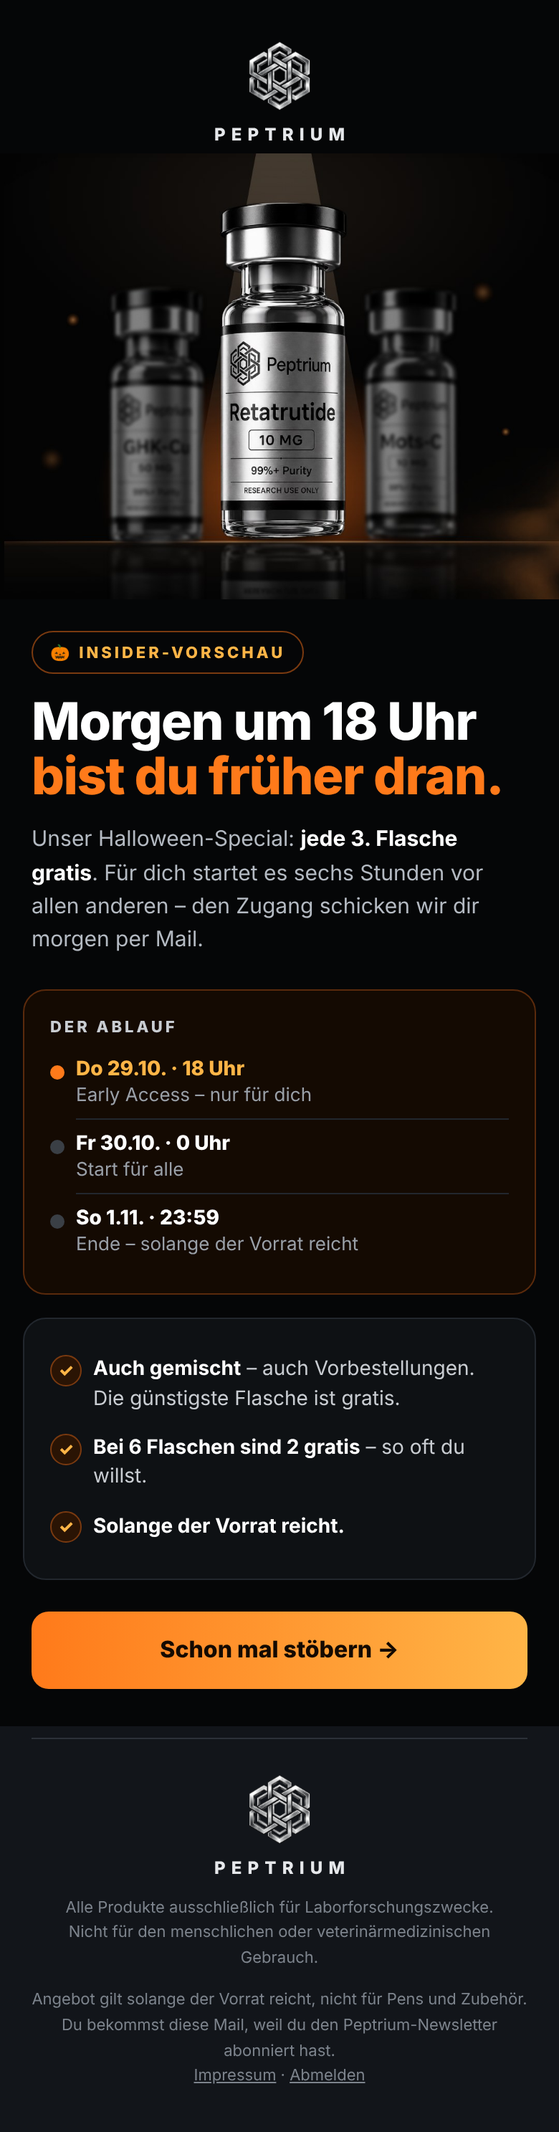
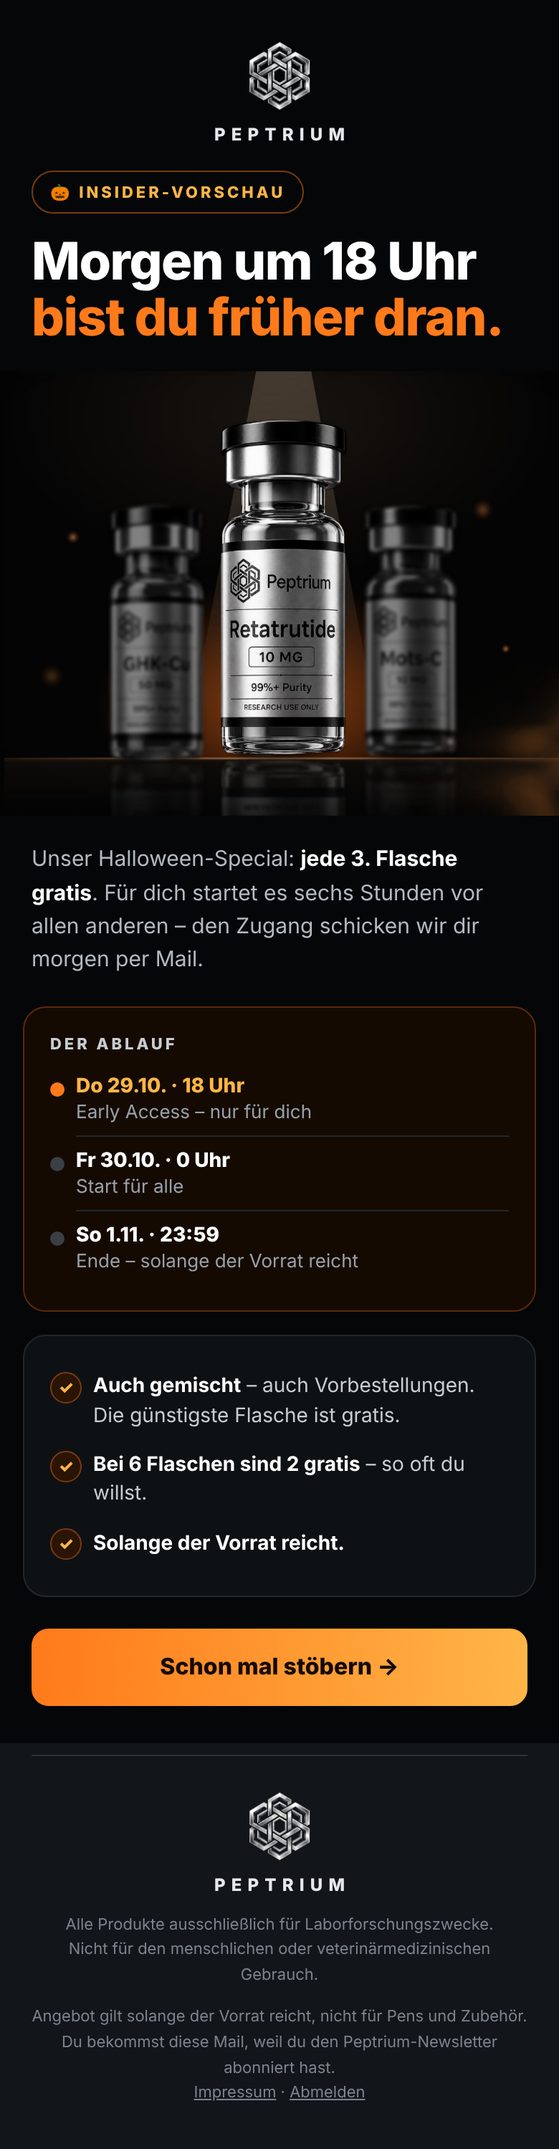
Halloween-Mails: Überschrift über dem Bild
Claude-Session: https://claude.ai/code/session_011YY7DBkbr5BcFGKyLoSbVN

diff --git a/drafts/halloween-2026-10-22/mails/vorschau-letzte.html b/drafts/halloween-2026-10-22/mails/vorschau-letzte.html
@@ -1,1 +1,1 @@
-<!doctype html><html lang="de"><head><meta charset="utf-8"><meta name="viewport" content="width=device-width,initial-scale=1"></head><body style="margin:0;background:#050607;"><table role="presentation" width="100%" cellpadding="0" cellspacing="0" style="background:#050607;"><tr><td align="center" style="padding:0;"><table role="presentation" width="100%" cellpadding="0" cellspacing="0" style="max-width:600px;background:#050607;"><tr><td style="padding:26px 20px 6px;background:#050607;text-align:center;font-family:-apple-system,BlinkMacSystemFont,'Segoe UI',Inter,Helvetica,Arial,sans-serif;"><img src="https://peptrium.com/wp-content/uploads/2026/08/IMG_2644-cropped-300x300.png" width="54" height="54" alt="Peptrium" style="display:block;margin:0 auto;width:54px;height:54px;border:0;"><div style="font-size:12px;font-weight:800;letter-spacing:.34em;padding-left:.34em;color:#E6E8EB;margin-top:6px;">PEPTRIUM</div></td></tr><tr><td style="padding:0;line-height:0;background:#050607;"><a href="https://peptrium.com/alle-produkte/?utm_source=newsletter&utm_medium=email&utm_campaign=halloween-letzte" style="display:block;line-height:0;"><img src="nl-hw-letzte.jpg" width="600" alt="Halloween bei Peptrium" style="display:block;width:100%;max-width:600px;height:auto;border:0;"></a></td></tr><tr><td style="padding:22px 22px 6px;background:#050607;text-align:left;font-family:-apple-system,BlinkMacSystemFont,'Segoe UI',Inter,Helvetica,Arial,sans-serif;"><span style="display:inline-block;font-size:11px;font-weight:800;letter-spacing:.18em;color:#FFB547;border:1px solid #7A3A10;border-radius:99px;padding:7px 12px;">🎃 LETZTE CHANCE</span><div style="font-size:36px;line-height:1.08;font-weight:800;color:#FFFFFF;letter-spacing:-.02em;margin-top:14px;">Heute um 23:59<br><span style="color:#FF7A1A;">ist Schluss.</span></div><div style="font-size:15px;line-height:1.55;color:#B4BAC2;margin-top:12px;">Danach kostet jede Flasche wieder den normalen Preis.</div></td></tr><tr><td style="padding:18px 22px 6px;background:#050607;text-align:left;font-family:-apple-system,BlinkMacSystemFont,'Segoe UI',Inter,Helvetica,Arial,sans-serif;"><a href="https://peptrium.com/alle-produkte/?utm_source=newsletter&utm_medium=email&utm_campaign=halloween-letzte" style="display:block;background:#FF7A1A;background-image:linear-gradient(90deg,#FF7A1A,#FFB547);color:#140A02;text-align:center;text-decoration:none;font-weight:800;font-size:16px;line-height:1.2;padding:17px 12px;border-radius:12px;font-family:-apple-system,BlinkMacSystemFont,'Segoe UI',Inter,Helvetica,Arial,sans-serif;">Jetzt Flaschen wählen &rarr;</a></td></tr><tr><td style="padding:20px 16px 4px;background:#050607;text-align:left;font-family:-apple-system,BlinkMacSystemFont,'Segoe UI',Inter,Helvetica,Arial,sans-serif;"><div style="font-size:11px;font-weight:800;letter-spacing:.18em;color:#C9CDD2;margin-bottom:6px;">DIE BELIEBTESTEN</div><table role="presentation" width="100%" cellpadding="0" cellspacing="0"><tr><td style="padding:6px 0;"><table role="presentation" width="100%" cellpadding="0" cellspacing="0" style="border-collapse:separate;background:#0E1114;border:1px solid #22272E;border-radius:14px;overflow:hidden;"><tr><td width="92" style="width:92px;padding:0;line-height:0;"><a href="https://peptrium.com/produkt/retatrutide/?attribute_volumen=10mg&utm_source=newsletter&utm_medium=email&utm_campaign=halloween-letzte"><img src="nl-hw-p-reta10.jpg" width="92" alt="" style="display:block;width:92px;height:92px;border:0;"></a></td><td style="padding:10px 12px;font-family:-apple-system,BlinkMacSystemFont,'Segoe UI',Inter,Helvetica,Arial,sans-serif;"><div style="font-size:15px;font-weight:800;color:#fff;">Retatrutide 10 mg</div><div style="font-size:13px;color:#9AA0A8;margin-top:3px;">3 Flaschen – du zahlst nur 2</div><div style="font-size:16px;font-weight:800;color:#FFB547;margin-top:2px;white-space:nowrap;">149,80 €</div></td><td width="44" style="width:44px;padding-right:12px;"><a href="https://peptrium.com/produkt/retatrutide/?attribute_volumen=10mg&utm_source=newsletter&utm_medium=email&utm_campaign=halloween-letzte" style="display:block;width:36px;height:36px;line-height:36px;border-radius:50%;background:#fff;color:#0D0F12;text-align:center;font-weight:800;text-decoration:none;font-size:18px;">&rarr;</a></td></tr></table></td></tr><tr><td style="padding:6px 0;"><table role="presentation" width="100%" cellpadding="0" cellspacing="0" style="border-collapse:separate;background:#0E1114;border:1px solid #22272E;border-radius:14px;overflow:hidden;"><tr><td width="92" style="width:92px;padding:0;line-height:0;"><a href="https://peptrium.com/produkt/retatrutide/?attribute_volumen=20mg&utm_source=newsletter&utm_medium=email&utm_campaign=halloween-letzte"><img src="nl-hw-p-reta20.jpg" width="92" alt="" style="display:block;width:92px;height:92px;border:0;"></a></td><td style="padding:10px 12px;font-family:-apple-system,BlinkMacSystemFont,'Segoe UI',Inter,Helvetica,Arial,sans-serif;"><div style="font-size:15px;font-weight:800;color:#fff;">Retatrutide 20 mg</div><div style="font-size:13px;color:#9AA0A8;margin-top:3px;">3 Flaschen – du zahlst nur 2</div><div style="font-size:16px;font-weight:800;color:#FFB547;margin-top:2px;white-space:nowrap;">289,80 €</div></td><td width="44" style="width:44px;padding-right:12px;"><a href="https://peptrium.com/produkt/retatrutide/?attribute_volumen=20mg&utm_source=newsletter&utm_medium=email&utm_campaign=halloween-letzte" style="display:block;width:36px;height:36px;line-height:36px;border-radius:50%;background:#fff;color:#0D0F12;text-align:center;font-weight:800;text-decoration:none;font-size:18px;">&rarr;</a></td></tr></table></td></tr><tr><td style="padding:6px 0;"><table role="presentation" width="100%" cellpadding="0" cellspacing="0" style="border-collapse:separate;background:#0E1114;border:1px solid #22272E;border-radius:14px;overflow:hidden;"><tr><td width="92" style="width:92px;padding:0;line-height:0;"><a href="https://peptrium.com/produkt/ghk-cu/?attribute_volumen=100mg&utm_source=newsletter&utm_medium=email&utm_campaign=halloween-letzte"><img src="nl-hw-p-ghk100.jpg" width="92" alt="" style="display:block;width:92px;height:92px;border:0;"></a></td><td style="padding:10px 12px;font-family:-apple-system,BlinkMacSystemFont,'Segoe UI',Inter,Helvetica,Arial,sans-serif;"><div style="font-size:15px;font-weight:800;color:#fff;">GHK-Cu 100 mg</div><div style="font-size:13px;color:#9AA0A8;margin-top:3px;">3 Flaschen – du zahlst nur 2</div><div style="font-size:16px;font-weight:800;color:#FFB547;margin-top:2px;white-space:nowrap;">149,80 €</div></td><td width="44" style="width:44px;padding-right:12px;"><a href="https://peptrium.com/produkt/ghk-cu/?attribute_volumen=100mg&utm_source=newsletter&utm_medium=email&utm_campaign=halloween-letzte" style="display:block;width:36px;height:36px;line-height:36px;border-radius:50%;background:#fff;color:#0D0F12;text-align:center;font-weight:800;text-decoration:none;font-size:18px;">&rarr;</a></td></tr></table></td></tr></table></td></tr><tr><td style="padding:12px 16px 26px;background:#050607;text-align:left;font-family:-apple-system,BlinkMacSystemFont,'Segoe UI',Inter,Helvetica,Arial,sans-serif;"><div style="background:#0E1114;border:1px solid #22272E;border-radius:16px;padding:18px 18px;"><table role="presentation" width="100%" cellpadding="0" cellspacing="0"><tr><td width="30" valign="top" style="width:30px;padding:7px 0;"><div style="width:20px;height:20px;line-height:20px;border-radius:50%;background:#2A1404;border:1px solid #7A3A10;color:#FFB547;text-align:center;font-size:12px;font-weight:800;">&#10003;</div></td><td style="padding:7px 0;font-family:-apple-system,BlinkMacSystemFont,'Segoe UI',Inter,Helvetica,Arial,sans-serif;font-size:14px;line-height:1.45;color:#C9CDD2;"><b style="color:#fff;">Auch gemischt</b> – auch Vorbestellungen. Die günstigste Flasche ist gratis.</td></tr><tr><td width="30" valign="top" style="width:30px;padding:7px 0;"><div style="width:20px;height:20px;line-height:20px;border-radius:50%;background:#2A1404;border:1px solid #7A3A10;color:#FFB547;text-align:center;font-size:12px;font-weight:800;">&#10003;</div></td><td style="padding:7px 0;font-family:-apple-system,BlinkMacSystemFont,'Segoe UI',Inter,Helvetica,Arial,sans-serif;font-size:14px;line-height:1.45;color:#C9CDD2;"><b style="color:#fff;">Kein Code nötig</b> – wird automatisch abgezogen.</td></tr><tr><td width="30" valign="top" style="width:30px;padding:7px 0;"><div style="width:20px;height:20px;line-height:20px;border-radius:50%;background:#2A1404;border:1px solid #7A3A10;color:#FFB547;text-align:center;font-size:12px;font-weight:800;">&#10003;</div></td><td style="padding:7px 0;font-family:-apple-system,BlinkMacSystemFont,'Segoe UI',Inter,Helvetica,Arial,sans-serif;font-size:14px;line-height:1.45;color:#C9CDD2;"><b style="color:#fff;">Per Vorkasse?</b> Es zählt deine Bestellung, nicht der Zahlungseingang.</td></tr></table></div></td></tr><tr><td style="padding:8px 22px 30px;background:#12151A;text-align:center;font-family:-apple-system,BlinkMacSystemFont,'Segoe UI',Inter,Helvetica,Arial,sans-serif;"><div style="height:1px;background:#2C3138;margin:0 0 22px;"></div><img src="https://peptrium.com/wp-content/uploads/2026/08/IMG_2644-cropped-300x300.png" width="54" height="54" alt="Peptrium" style="display:block;margin:0 auto;width:54px;height:54px;border:0;"><div style="font-size:12px;font-weight:800;letter-spacing:.34em;padding-left:.34em;color:#E6E8EB;margin-top:6px;">PEPTRIUM</div><div style="font-size:11px;color:#7D848D;margin-top:12px;line-height:1.6;">Alle Produkte ausschließlich für Laborforschungszwecke.<br>Nicht für den menschlichen oder veterinärmedizinischen Gebrauch.</div><div style="font-size:11px;color:#7D848D;margin-top:12px;line-height:1.6;">Angebot gilt solange der Vorrat reicht, nicht für Pens und Zubehör.<br>Du bekommst diese Mail, weil du den Peptrium-Newsletter abonniert hast. <br><a href="https://peptrium.com/impressum/" style="color:#7D848D;">Impressum</a> · <a href="#" style="color:#7D848D;">Abmelden</a></div></td></tr></table></td></tr></table></body></html>
+<!doctype html><html lang="de"><head><meta charset="utf-8"><meta name="viewport" content="width=device-width,initial-scale=1"></head><body style="margin:0;background:#050607;"><table role="presentation" width="100%" cellpadding="0" cellspacing="0" style="background:#050607;"><tr><td align="center" style="padding:0;"><table role="presentation" width="100%" cellpadding="0" cellspacing="0" style="max-width:600px;background:#050607;"><tr><td style="padding:26px 20px 0;background:#050607;text-align:center;font-family:-apple-system,BlinkMacSystemFont,'Segoe UI',Inter,Helvetica,Arial,sans-serif;"><img src="https://peptrium.com/wp-content/uploads/2026/08/IMG_2644-cropped-300x300.png" width="54" height="54" alt="Peptrium" style="display:block;margin:0 auto;width:54px;height:54px;border:0;"><div style="font-size:12px;font-weight:800;letter-spacing:.34em;padding-left:.34em;color:#E6E8EB;margin-top:6px;">PEPTRIUM</div></td></tr><tr><td style="padding:18px 22px 18px;background:#050607;text-align:left;font-family:-apple-system,BlinkMacSystemFont,'Segoe UI',Inter,Helvetica,Arial,sans-serif;"><span style="display:inline-block;font-size:11px;font-weight:800;letter-spacing:.18em;color:#FFB547;border:1px solid #7A3A10;border-radius:99px;padding:7px 12px;">🎃 LETZTE CHANCE</span><div style="font-size:36px;line-height:1.08;font-weight:800;color:#FFFFFF;letter-spacing:-.02em;margin-top:14px;">Heute um 23:59<br><span style="color:#FF7A1A;">ist Schluss.</span></div></td></tr><tr><td style="padding:0;line-height:0;background:#050607;"><a href="https://peptrium.com/alle-produkte/?utm_source=newsletter&utm_medium=email&utm_campaign=halloween-letzte" style="display:block;line-height:0;"><img src="nl-hw-letzte.jpg" width="600" alt="Halloween bei Peptrium" style="display:block;width:100%;max-width:600px;height:auto;border:0;"></a></td></tr><tr><td style="padding:18px 22px 4px;background:#050607;text-align:left;font-family:-apple-system,BlinkMacSystemFont,'Segoe UI',Inter,Helvetica,Arial,sans-serif;"><div style="font-size:15px;line-height:1.55;color:#B4BAC2;">Danach kostet jede Flasche wieder den normalen Preis.</div></td></tr><tr><td style="padding:18px 22px 6px;background:#050607;text-align:left;font-family:-apple-system,BlinkMacSystemFont,'Segoe UI',Inter,Helvetica,Arial,sans-serif;"><a href="https://peptrium.com/alle-produkte/?utm_source=newsletter&utm_medium=email&utm_campaign=halloween-letzte" style="display:block;background:#FF7A1A;background-image:linear-gradient(90deg,#FF7A1A,#FFB547);color:#140A02;text-align:center;text-decoration:none;font-weight:800;font-size:16px;line-height:1.2;padding:17px 12px;border-radius:12px;font-family:-apple-system,BlinkMacSystemFont,'Segoe UI',Inter,Helvetica,Arial,sans-serif;">Jetzt Flaschen wählen &rarr;</a></td></tr><tr><td style="padding:20px 16px 4px;background:#050607;text-align:left;font-family:-apple-system,BlinkMacSystemFont,'Segoe UI',Inter,Helvetica,Arial,sans-serif;"><div style="font-size:11px;font-weight:800;letter-spacing:.18em;color:#C9CDD2;margin-bottom:6px;">DIE BELIEBTESTEN</div><table role="presentation" width="100%" cellpadding="0" cellspacing="0"><tr><td style="padding:6px 0;"><table role="presentation" width="100%" cellpadding="0" cellspacing="0" style="border-collapse:separate;background:#0E1114;border:1px solid #22272E;border-radius:14px;overflow:hidden;"><tr><td width="92" style="width:92px;padding:0;line-height:0;"><a href="https://peptrium.com/produkt/retatrutide/?attribute_volumen=10mg&utm_source=newsletter&utm_medium=email&utm_campaign=halloween-letzte"><img src="nl-hw-p-reta10.jpg" width="92" alt="" style="display:block;width:92px;height:92px;border:0;"></a></td><td style="padding:10px 12px;font-family:-apple-system,BlinkMacSystemFont,'Segoe UI',Inter,Helvetica,Arial,sans-serif;"><div style="font-size:15px;font-weight:800;color:#fff;">Retatrutide 10 mg</div><div style="font-size:13px;color:#9AA0A8;margin-top:3px;">3 Flaschen – du zahlst nur 2</div><div style="font-size:16px;font-weight:800;color:#FFB547;margin-top:2px;white-space:nowrap;">149,80 €</div></td><td width="44" style="width:44px;padding-right:12px;"><a href="https://peptrium.com/produkt/retatrutide/?attribute_volumen=10mg&utm_source=newsletter&utm_medium=email&utm_campaign=halloween-letzte" style="display:block;width:36px;height:36px;line-height:36px;border-radius:50%;background:#fff;color:#0D0F12;text-align:center;font-weight:800;text-decoration:none;font-size:18px;">&rarr;</a></td></tr></table></td></tr><tr><td style="padding:6px 0;"><table role="presentation" width="100%" cellpadding="0" cellspacing="0" style="border-collapse:separate;background:#0E1114;border:1px solid #22272E;border-radius:14px;overflow:hidden;"><tr><td width="92" style="width:92px;padding:0;line-height:0;"><a href="https://peptrium.com/produkt/retatrutide/?attribute_volumen=20mg&utm_source=newsletter&utm_medium=email&utm_campaign=halloween-letzte"><img src="nl-hw-p-reta20.jpg" width="92" alt="" style="display:block;width:92px;height:92px;border:0;"></a></td><td style="padding:10px 12px;font-family:-apple-system,BlinkMacSystemFont,'Segoe UI',Inter,Helvetica,Arial,sans-serif;"><div style="font-size:15px;font-weight:800;color:#fff;">Retatrutide 20 mg</div><div style="font-size:13px;color:#9AA0A8;margin-top:3px;">3 Flaschen – du zahlst nur 2</div><div style="font-size:16px;font-weight:800;color:#FFB547;margin-top:2px;white-space:nowrap;">289,80 €</div></td><td width="44" style="width:44px;padding-right:12px;"><a href="https://peptrium.com/produkt/retatrutide/?attribute_volumen=20mg&utm_source=newsletter&utm_medium=email&utm_campaign=halloween-letzte" style="display:block;width:36px;height:36px;line-height:36px;border-radius:50%;background:#fff;color:#0D0F12;text-align:center;font-weight:800;text-decoration:none;font-size:18px;">&rarr;</a></td></tr></table></td></tr><tr><td style="padding:6px 0;"><table role="presentation" width="100%" cellpadding="0" cellspacing="0" style="border-collapse:separate;background:#0E1114;border:1px solid #22272E;border-radius:14px;overflow:hidden;"><tr><td width="92" style="width:92px;padding:0;line-height:0;"><a href="https://peptrium.com/produkt/ghk-cu/?attribute_volumen=100mg&utm_source=newsletter&utm_medium=email&utm_campaign=halloween-letzte"><img src="nl-hw-p-ghk100.jpg" width="92" alt="" style="display:block;width:92px;height:92px;border:0;"></a></td><td style="padding:10px 12px;font-family:-apple-system,BlinkMacSystemFont,'Segoe UI',Inter,Helvetica,Arial,sans-serif;"><div style="font-size:15px;font-weight:800;color:#fff;">GHK-Cu 100 mg</div><div style="font-size:13px;color:#9AA0A8;margin-top:3px;">3 Flaschen – du zahlst nur 2</div><div style="font-size:16px;font-weight:800;color:#FFB547;margin-top:2px;white-space:nowrap;">149,80 €</div></td><td width="44" style="width:44px;padding-right:12px;"><a href="https://peptrium.com/produkt/ghk-cu/?attribute_volumen=100mg&utm_source=newsletter&utm_medium=email&utm_campaign=halloween-letzte" style="display:block;width:36px;height:36px;line-height:36px;border-radius:50%;background:#fff;color:#0D0F12;text-align:center;font-weight:800;text-decoration:none;font-size:18px;">&rarr;</a></td></tr></table></td></tr></table></td></tr><tr><td style="padding:12px 16px 26px;background:#050607;text-align:left;font-family:-apple-system,BlinkMacSystemFont,'Segoe UI',Inter,Helvetica,Arial,sans-serif;"><div style="background:#0E1114;border:1px solid #22272E;border-radius:16px;padding:18px 18px;"><table role="presentation" width="100%" cellpadding="0" cellspacing="0"><tr><td width="30" valign="top" style="width:30px;padding:7px 0;"><div style="width:20px;height:20px;line-height:20px;border-radius:50%;background:#2A1404;border:1px solid #7A3A10;color:#FFB547;text-align:center;font-size:12px;font-weight:800;">&#10003;</div></td><td style="padding:7px 0;font-family:-apple-system,BlinkMacSystemFont,'Segoe UI',Inter,Helvetica,Arial,sans-serif;font-size:14px;line-height:1.45;color:#C9CDD2;"><b style="color:#fff;">Auch gemischt</b> – auch Vorbestellungen. Die günstigste Flasche ist gratis.</td></tr><tr><td width="30" valign="top" style="width:30px;padding:7px 0;"><div style="width:20px;height:20px;line-height:20px;border-radius:50%;background:#2A1404;border:1px solid #7A3A10;color:#FFB547;text-align:center;font-size:12px;font-weight:800;">&#10003;</div></td><td style="padding:7px 0;font-family:-apple-system,BlinkMacSystemFont,'Segoe UI',Inter,Helvetica,Arial,sans-serif;font-size:14px;line-height:1.45;color:#C9CDD2;"><b style="color:#fff;">Kein Code nötig</b> – wird automatisch abgezogen.</td></tr><tr><td width="30" valign="top" style="width:30px;padding:7px 0;"><div style="width:20px;height:20px;line-height:20px;border-radius:50%;background:#2A1404;border:1px solid #7A3A10;color:#FFB547;text-align:center;font-size:12px;font-weight:800;">&#10003;</div></td><td style="padding:7px 0;font-family:-apple-system,BlinkMacSystemFont,'Segoe UI',Inter,Helvetica,Arial,sans-serif;font-size:14px;line-height:1.45;color:#C9CDD2;"><b style="color:#fff;">Per Vorkasse?</b> Es zählt deine Bestellung, nicht der Zahlungseingang.</td></tr></table></div></td></tr><tr><td style="padding:8px 22px 30px;background:#12151A;text-align:center;font-family:-apple-system,BlinkMacSystemFont,'Segoe UI',Inter,Helvetica,Arial,sans-serif;"><div style="height:1px;background:#2C3138;margin:0 0 22px;"></div><img src="https://peptrium.com/wp-content/uploads/2026/08/IMG_2644-cropped-300x300.png" width="54" height="54" alt="Peptrium" style="display:block;margin:0 auto;width:54px;height:54px;border:0;"><div style="font-size:12px;font-weight:800;letter-spacing:.34em;padding-left:.34em;color:#E6E8EB;margin-top:6px;">PEPTRIUM</div><div style="font-size:11px;color:#7D848D;margin-top:12px;line-height:1.6;">Alle Produkte ausschließlich für Laborforschungszwecke.<br>Nicht für den menschlichen oder veterinärmedizinischen Gebrauch.</div><div style="font-size:11px;color:#7D848D;margin-top:12px;line-height:1.6;">Angebot gilt solange der Vorrat reicht, nicht für Pens und Zubehör.<br>Du bekommst diese Mail, weil du den Peptrium-Newsletter abonniert hast. <br><a href="https://peptrium.com/impressum/" style="color:#7D848D;">Impressum</a> · <a href="#" style="color:#7D848D;">Abmelden</a></div></td></tr></table></td></tr></table></body></html>

diff --git a/drafts/halloween-2026-10-22/mails/vorschau-teaser.html b/drafts/halloween-2026-10-22/mails/vorschau-teaser.html
@@ -1,1 +1,1 @@
-<!doctype html><html lang="de"><head><meta charset="utf-8"><meta name="viewport" content="width=device-width,initial-scale=1"></head><body style="margin:0;background:#050607;"><table role="presentation" width="100%" cellpadding="0" cellspacing="0" style="background:#050607;"><tr><td align="center" style="padding:0;"><table role="presentation" width="100%" cellpadding="0" cellspacing="0" style="max-width:600px;background:#050607;"><tr><td style="padding:26px 20px 6px;background:#050607;text-align:center;font-family:-apple-system,BlinkMacSystemFont,'Segoe UI',Inter,Helvetica,Arial,sans-serif;"><img src="https://peptrium.com/wp-content/uploads/2026/08/IMG_2644-cropped-300x300.png" width="54" height="54" alt="Peptrium" style="display:block;margin:0 auto;width:54px;height:54px;border:0;"><div style="font-size:12px;font-weight:800;letter-spacing:.34em;padding-left:.34em;color:#E6E8EB;margin-top:6px;">PEPTRIUM</div></td></tr><tr><td style="padding:0;line-height:0;background:#050607;"><a href="https://peptrium.com/alle-produkte/?utm_source=newsletter&utm_medium=email&utm_campaign=halloween-teaser" style="display:block;line-height:0;"><img src="nl-hw-teaser.jpg" width="600" alt="Halloween bei Peptrium" style="display:block;width:100%;max-width:600px;height:auto;border:0;"></a></td></tr><tr><td style="padding:22px 22px 6px;background:#050607;text-align:left;font-family:-apple-system,BlinkMacSystemFont,'Segoe UI',Inter,Helvetica,Arial,sans-serif;"><span style="display:inline-block;font-size:11px;font-weight:800;letter-spacing:.18em;color:#FFB547;border:1px solid #7A3A10;border-radius:99px;padding:7px 12px;">🎃 INSIDER-VORSCHAU</span><div style="font-size:36px;line-height:1.08;font-weight:800;color:#FFFFFF;letter-spacing:-.02em;margin-top:14px;">Morgen um 18 Uhr<br><span style="color:#FF7A1A;">bist du früher dran.</span></div><div style="font-size:15px;line-height:1.55;color:#B4BAC2;margin-top:12px;">Unser Halloween-Special: <b style="color:#fff;">jede 3. Flasche gratis</b>. Für dich startet es sechs Stunden vor allen anderen – den Zugang schicken wir dir morgen per Mail.</div></td></tr><tr><td style="padding:18px 16px 4px;background:#050607;text-align:left;font-family:-apple-system,BlinkMacSystemFont,'Segoe UI',Inter,Helvetica,Arial,sans-serif;"><div style="background:#140A02;border:1px solid #5A2A0C;border-radius:16px;padding:18px 18px;"><div style="font-size:11px;font-weight:800;letter-spacing:.18em;color:#C9CDD2;margin-bottom:6px;">DER ABLAUF</div><table role="presentation" width="100%" cellpadding="0" cellspacing="0"><tr><td width="18" valign="top" style="width:18px;padding:10px 0;"><div style="width:10px;height:10px;border-radius:50%;margin-top:4px;background:#FF7A1A;"></div></td><td style="padding:8px 0;font-family:-apple-system,BlinkMacSystemFont,'Segoe UI',Inter,Helvetica,Arial,sans-serif;border-bottom:1px solid #22272E;"><div style="font-size:14px;font-weight:800;color:#FFB547;">Do 29.10. · 18 Uhr</div><div style="font-size:13px;color:#9AA0A8;margin-top:2px;">Early Access – nur für dich</div></td></tr><tr><td width="18" valign="top" style="width:18px;padding:10px 0;"><div style="width:10px;height:10px;border-radius:50%;margin-top:4px;background:#3A3F45;"></div></td><td style="padding:8px 0;font-family:-apple-system,BlinkMacSystemFont,'Segoe UI',Inter,Helvetica,Arial,sans-serif;border-bottom:1px solid #22272E;"><div style="font-size:14px;font-weight:800;color:#fff;">Fr 30.10. · 0 Uhr</div><div style="font-size:13px;color:#9AA0A8;margin-top:2px;">Start für alle</div></td></tr><tr><td width="18" valign="top" style="width:18px;padding:10px 0;"><div style="width:10px;height:10px;border-radius:50%;margin-top:4px;background:#3A3F45;"></div></td><td style="padding:8px 0;font-family:-apple-system,BlinkMacSystemFont,'Segoe UI',Inter,Helvetica,Arial,sans-serif;"><div style="font-size:14px;font-weight:800;color:#fff;">So 1.11. · 23:59</div><div style="font-size:13px;color:#9AA0A8;margin-top:2px;">Ende – solange der Vorrat reicht</div></td></tr></table></div></td></tr><tr><td style="padding:12px 16px 4px;background:#050607;text-align:left;font-family:-apple-system,BlinkMacSystemFont,'Segoe UI',Inter,Helvetica,Arial,sans-serif;"><div style="background:#0E1114;border:1px solid #22272E;border-radius:16px;padding:18px 18px;"><table role="presentation" width="100%" cellpadding="0" cellspacing="0"><tr><td width="30" valign="top" style="width:30px;padding:7px 0;"><div style="width:20px;height:20px;line-height:20px;border-radius:50%;background:#2A1404;border:1px solid #7A3A10;color:#FFB547;text-align:center;font-size:12px;font-weight:800;">&#10003;</div></td><td style="padding:7px 0;font-family:-apple-system,BlinkMacSystemFont,'Segoe UI',Inter,Helvetica,Arial,sans-serif;font-size:14px;line-height:1.45;color:#C9CDD2;"><b style="color:#fff;">Auch gemischt</b> – auch Vorbestellungen. Die günstigste Flasche ist gratis.</td></tr><tr><td width="30" valign="top" style="width:30px;padding:7px 0;"><div style="width:20px;height:20px;line-height:20px;border-radius:50%;background:#2A1404;border:1px solid #7A3A10;color:#FFB547;text-align:center;font-size:12px;font-weight:800;">&#10003;</div></td><td style="padding:7px 0;font-family:-apple-system,BlinkMacSystemFont,'Segoe UI',Inter,Helvetica,Arial,sans-serif;font-size:14px;line-height:1.45;color:#C9CDD2;"><b style="color:#fff;">Bei 6 Flaschen sind 2 gratis</b> – so oft du willst.</td></tr><tr><td width="30" valign="top" style="width:30px;padding:7px 0;"><div style="width:20px;height:20px;line-height:20px;border-radius:50%;background:#2A1404;border:1px solid #7A3A10;color:#FFB547;text-align:center;font-size:12px;font-weight:800;">&#10003;</div></td><td style="padding:7px 0;font-family:-apple-system,BlinkMacSystemFont,'Segoe UI',Inter,Helvetica,Arial,sans-serif;font-size:14px;line-height:1.45;color:#C9CDD2;"><b style="color:#fff;">Solange der Vorrat reicht.</b></td></tr></table></div></td></tr><tr><td style="padding:18px 22px 26px;background:#050607;text-align:left;font-family:-apple-system,BlinkMacSystemFont,'Segoe UI',Inter,Helvetica,Arial,sans-serif;"><a href="https://peptrium.com/alle-produkte/?utm_source=newsletter&utm_medium=email&utm_campaign=halloween-teaser" style="display:block;background:#FF7A1A;background-image:linear-gradient(90deg,#FF7A1A,#FFB547);color:#140A02;text-align:center;text-decoration:none;font-weight:800;font-size:16px;line-height:1.2;padding:17px 12px;border-radius:12px;font-family:-apple-system,BlinkMacSystemFont,'Segoe UI',Inter,Helvetica,Arial,sans-serif;">Schon mal stöbern &rarr;</a></td></tr><tr><td style="padding:8px 22px 30px;background:#12151A;text-align:center;font-family:-apple-system,BlinkMacSystemFont,'Segoe UI',Inter,Helvetica,Arial,sans-serif;"><div style="height:1px;background:#2C3138;margin:0 0 22px;"></div><img src="https://peptrium.com/wp-content/uploads/2026/08/IMG_2644-cropped-300x300.png" width="54" height="54" alt="Peptrium" style="display:block;margin:0 auto;width:54px;height:54px;border:0;"><div style="font-size:12px;font-weight:800;letter-spacing:.34em;padding-left:.34em;color:#E6E8EB;margin-top:6px;">PEPTRIUM</div><div style="font-size:11px;color:#7D848D;margin-top:12px;line-height:1.6;">Alle Produkte ausschließlich für Laborforschungszwecke.<br>Nicht für den menschlichen oder veterinärmedizinischen Gebrauch.</div><div style="font-size:11px;color:#7D848D;margin-top:12px;line-height:1.6;">Angebot gilt solange der Vorrat reicht, nicht für Pens und Zubehör.<br>Du bekommst diese Mail, weil du den Peptrium-Newsletter abonniert hast. <br><a href="https://peptrium.com/impressum/" style="color:#7D848D;">Impressum</a> · <a href="#" style="color:#7D848D;">Abmelden</a></div></td></tr></table></td></tr></table></body></html>
+<!doctype html><html lang="de"><head><meta charset="utf-8"><meta name="viewport" content="width=device-width,initial-scale=1"></head><body style="margin:0;background:#050607;"><table role="presentation" width="100%" cellpadding="0" cellspacing="0" style="background:#050607;"><tr><td align="center" style="padding:0;"><table role="presentation" width="100%" cellpadding="0" cellspacing="0" style="max-width:600px;background:#050607;"><tr><td style="padding:26px 20px 0;background:#050607;text-align:center;font-family:-apple-system,BlinkMacSystemFont,'Segoe UI',Inter,Helvetica,Arial,sans-serif;"><img src="https://peptrium.com/wp-content/uploads/2026/08/IMG_2644-cropped-300x300.png" width="54" height="54" alt="Peptrium" style="display:block;margin:0 auto;width:54px;height:54px;border:0;"><div style="font-size:12px;font-weight:800;letter-spacing:.34em;padding-left:.34em;color:#E6E8EB;margin-top:6px;">PEPTRIUM</div></td></tr><tr><td style="padding:18px 22px 18px;background:#050607;text-align:left;font-family:-apple-system,BlinkMacSystemFont,'Segoe UI',Inter,Helvetica,Arial,sans-serif;"><span style="display:inline-block;font-size:11px;font-weight:800;letter-spacing:.18em;color:#FFB547;border:1px solid #7A3A10;border-radius:99px;padding:7px 12px;">🎃 INSIDER-VORSCHAU</span><div style="font-size:36px;line-height:1.08;font-weight:800;color:#FFFFFF;letter-spacing:-.02em;margin-top:14px;">Morgen um 18 Uhr<br><span style="color:#FF7A1A;">bist du früher dran.</span></div></td></tr><tr><td style="padding:0;line-height:0;background:#050607;"><a href="https://peptrium.com/alle-produkte/?utm_source=newsletter&utm_medium=email&utm_campaign=halloween-teaser" style="display:block;line-height:0;"><img src="nl-hw-teaser.jpg" width="600" alt="Halloween bei Peptrium" style="display:block;width:100%;max-width:600px;height:auto;border:0;"></a></td></tr><tr><td style="padding:18px 22px 4px;background:#050607;text-align:left;font-family:-apple-system,BlinkMacSystemFont,'Segoe UI',Inter,Helvetica,Arial,sans-serif;"><div style="font-size:15px;line-height:1.55;color:#B4BAC2;">Unser Halloween-Special: <b style="color:#fff;">jede 3. Flasche gratis</b>. Für dich startet es sechs Stunden vor allen anderen – den Zugang schicken wir dir morgen per Mail.</div></td></tr><tr><td style="padding:18px 16px 4px;background:#050607;text-align:left;font-family:-apple-system,BlinkMacSystemFont,'Segoe UI',Inter,Helvetica,Arial,sans-serif;"><div style="background:#140A02;border:1px solid #5A2A0C;border-radius:16px;padding:18px 18px;"><div style="font-size:11px;font-weight:800;letter-spacing:.18em;color:#C9CDD2;margin-bottom:6px;">DER ABLAUF</div><table role="presentation" width="100%" cellpadding="0" cellspacing="0"><tr><td width="18" valign="top" style="width:18px;padding:10px 0;"><div style="width:10px;height:10px;border-radius:50%;margin-top:4px;background:#FF7A1A;"></div></td><td style="padding:8px 0;font-family:-apple-system,BlinkMacSystemFont,'Segoe UI',Inter,Helvetica,Arial,sans-serif;border-bottom:1px solid #22272E;"><div style="font-size:14px;font-weight:800;color:#FFB547;">Do 29.10. · 18 Uhr</div><div style="font-size:13px;color:#9AA0A8;margin-top:2px;">Early Access – nur für dich</div></td></tr><tr><td width="18" valign="top" style="width:18px;padding:10px 0;"><div style="width:10px;height:10px;border-radius:50%;margin-top:4px;background:#3A3F45;"></div></td><td style="padding:8px 0;font-family:-apple-system,BlinkMacSystemFont,'Segoe UI',Inter,Helvetica,Arial,sans-serif;border-bottom:1px solid #22272E;"><div style="font-size:14px;font-weight:800;color:#fff;">Fr 30.10. · 0 Uhr</div><div style="font-size:13px;color:#9AA0A8;margin-top:2px;">Start für alle</div></td></tr><tr><td width="18" valign="top" style="width:18px;padding:10px 0;"><div style="width:10px;height:10px;border-radius:50%;margin-top:4px;background:#3A3F45;"></div></td><td style="padding:8px 0;font-family:-apple-system,BlinkMacSystemFont,'Segoe UI',Inter,Helvetica,Arial,sans-serif;"><div style="font-size:14px;font-weight:800;color:#fff;">So 1.11. · 23:59</div><div style="font-size:13px;color:#9AA0A8;margin-top:2px;">Ende – solange der Vorrat reicht</div></td></tr></table></div></td></tr><tr><td style="padding:12px 16px 4px;background:#050607;text-align:left;font-family:-apple-system,BlinkMacSystemFont,'Segoe UI',Inter,Helvetica,Arial,sans-serif;"><div style="background:#0E1114;border:1px solid #22272E;border-radius:16px;padding:18px 18px;"><table role="presentation" width="100%" cellpadding="0" cellspacing="0"><tr><td width="30" valign="top" style="width:30px;padding:7px 0;"><div style="width:20px;height:20px;line-height:20px;border-radius:50%;background:#2A1404;border:1px solid #7A3A10;color:#FFB547;text-align:center;font-size:12px;font-weight:800;">&#10003;</div></td><td style="padding:7px 0;font-family:-apple-system,BlinkMacSystemFont,'Segoe UI',Inter,Helvetica,Arial,sans-serif;font-size:14px;line-height:1.45;color:#C9CDD2;"><b style="color:#fff;">Auch gemischt</b> – auch Vorbestellungen. Die günstigste Flasche ist gratis.</td></tr><tr><td width="30" valign="top" style="width:30px;padding:7px 0;"><div style="width:20px;height:20px;line-height:20px;border-radius:50%;background:#2A1404;border:1px solid #7A3A10;color:#FFB547;text-align:center;font-size:12px;font-weight:800;">&#10003;</div></td><td style="padding:7px 0;font-family:-apple-system,BlinkMacSystemFont,'Segoe UI',Inter,Helvetica,Arial,sans-serif;font-size:14px;line-height:1.45;color:#C9CDD2;"><b style="color:#fff;">Bei 6 Flaschen sind 2 gratis</b> – so oft du willst.</td></tr><tr><td width="30" valign="top" style="width:30px;padding:7px 0;"><div style="width:20px;height:20px;line-height:20px;border-radius:50%;background:#2A1404;border:1px solid #7A3A10;color:#FFB547;text-align:center;font-size:12px;font-weight:800;">&#10003;</div></td><td style="padding:7px 0;font-family:-apple-system,BlinkMacSystemFont,'Segoe UI',Inter,Helvetica,Arial,sans-serif;font-size:14px;line-height:1.45;color:#C9CDD2;"><b style="color:#fff;">Solange der Vorrat reicht.</b></td></tr></table></div></td></tr><tr><td style="padding:18px 22px 26px;background:#050607;text-align:left;font-family:-apple-system,BlinkMacSystemFont,'Segoe UI',Inter,Helvetica,Arial,sans-serif;"><a href="https://peptrium.com/alle-produkte/?utm_source=newsletter&utm_medium=email&utm_campaign=halloween-teaser" style="display:block;background:#FF7A1A;background-image:linear-gradient(90deg,#FF7A1A,#FFB547);color:#140A02;text-align:center;text-decoration:none;font-weight:800;font-size:16px;line-height:1.2;padding:17px 12px;border-radius:12px;font-family:-apple-system,BlinkMacSystemFont,'Segoe UI',Inter,Helvetica,Arial,sans-serif;">Schon mal stöbern &rarr;</a></td></tr><tr><td style="padding:8px 22px 30px;background:#12151A;text-align:center;font-family:-apple-system,BlinkMacSystemFont,'Segoe UI',Inter,Helvetica,Arial,sans-serif;"><div style="height:1px;background:#2C3138;margin:0 0 22px;"></div><img src="https://peptrium.com/wp-content/uploads/2026/08/IMG_2644-cropped-300x300.png" width="54" height="54" alt="Peptrium" style="display:block;margin:0 auto;width:54px;height:54px;border:0;"><div style="font-size:12px;font-weight:800;letter-spacing:.34em;padding-left:.34em;color:#E6E8EB;margin-top:6px;">PEPTRIUM</div><div style="font-size:11px;color:#7D848D;margin-top:12px;line-height:1.6;">Alle Produkte ausschließlich für Laborforschungszwecke.<br>Nicht für den menschlichen oder veterinärmedizinischen Gebrauch.</div><div style="font-size:11px;color:#7D848D;margin-top:12px;line-height:1.6;">Angebot gilt solange der Vorrat reicht, nicht für Pens und Zubehör.<br>Du bekommst diese Mail, weil du den Peptrium-Newsletter abonniert hast. <br><a href="https://peptrium.com/impressum/" style="color:#7D848D;">Impressum</a> · <a href="#" style="color:#7D848D;">Abmelden</a></div></td></tr></table></td></tr></table></body></html>

diff --git a/drafts/halloween-2026-10-22/mails/gen.py b/drafts/halloween-2026-10-22/mails/gen.py
@@ -54,6 +54,8 @@ def timeline(active):
                 f'<td style="padding:8px 0;font-family:{F};{"" if i == len(items)-1 else f"border-bottom:1px solid {BD};"}"><div style="font-size:14px;font-weight:800;color:{OR2 if on else "#fff"};">{d}</div><div style="font-size:13px;color:{MU};margin-top:2px;">{t}</div></td></tr>')
     return out + '</table>'
 
+def headrow(p, a, b): return row(pill(p) + f'<div style="font-size:36px;line-height:1.08;font-weight:800;color:#FFFFFF;letter-spacing:-.02em;margin-top:14px;">{a}<br><span style="color:{OR};">{b}</span></div>', '18px 22px 18px')
+def subrow(t): return row(f'<div style="font-size:15px;line-height:1.55;color:#B4BAC2;">{t}</div>', '18px 22px 4px')
 def ticks(items):
     r = ''.join(f'<tr><td width="30" valign="top" style="width:30px;padding:7px 0;"><div style="width:20px;height:20px;line-height:20px;border-radius:50%;background:#2A1404;border:1px solid #7A3A10;color:{OR2};text-align:center;font-size:12px;font-weight:800;">&#10003;</div></td>'
                 f'<td style="padding:7px 0;font-family:{F};font-size:14px;line-height:1.45;color:{LT};">{t}</td></tr>' for t in items)
@@ -67,8 +69,8 @@ TK_VORRAT = '<b style="color:#fff;">Solange der Vorrat reicht.</b>'
 
 def teaser():
     c = 'halloween-teaser'
-    return wrap(row(logo(), '26px 20px 6px', align='center') + heroimg('teaser', utm('/alle-produkte/', c))
-        + row(pill('🎃 INSIDER-VORSCHAU') + h1('Morgen um 18 Uhr', 'bist du früher dran.', 'Unser Halloween-Special: <b style="color:#fff;">jede 3. Flasche gratis</b>. Für dich startet es sechs Stunden vor allen anderen – den Zugang schicken wir dir morgen per Mail.'), '22px 22px 6px')
+    return wrap(row(logo(), '26px 20px 0', align='center') + headrow('🎃 INSIDER-VORSCHAU', 'Morgen um 18 Uhr', 'bist du früher dran.') + heroimg('teaser', utm('/alle-produkte/', c))
+        + subrow('Unser Halloween-Special: <b style="color:#fff;">jede 3. Flasche gratis</b>. Für dich startet es sechs Stunden vor allen anderen – den Zugang schicken wir dir morgen per Mail.')
         + row(box(label('DER ABLAUF') + timeline(0)), '18px 16px 4px')
         + row(ticks([TK_MIX, '<b style="color:#fff;">Bei 6 Flaschen sind 2 gratis</b> – so oft du willst.', TK_VORRAT]), '12px 16px 4px')
         + row(btn('Schon mal stöbern', utm('/alle-produkte/', c)), '18px 22px 26px'))
@@ -76,8 +78,8 @@ def teaser():
 def early():
     c = 'halloween-early'
     link = f'https://peptrium.com/?sp_hw=frueh&k={EA}&utm_source=newsletter&utm_medium=email&utm_campaign={c}'
-    return wrap(row(logo(), '26px 20px 6px', align='center') + heroimg('early', link)
-        + row(pill('🎃 EARLY ACCESS') + h1('Du bist drin.', 'Jede 3. Flasche gratis.', 'Für alle anderen startet es erst um Mitternacht.'), '22px 22px 6px')
+    return wrap(row(logo(), '26px 20px 0', align='center') + headrow('🎃 EARLY ACCESS', 'Du bist drin.', 'Jede 3. Flasche gratis.') + heroimg('early', link)
+        + subrow('Für alle anderen startet es erst um Mitternacht.')
         + row(btn('Early Access öffnen', link), '18px 22px 4px')
         + row(f'<div style="font-size:13px;color:{OR2};text-align:center;line-height:1.5;">📱 Öffne den Link auf dem Gerät, mit dem du bestellst.</div>', '8px 22px 6px', align='center')
         + row(label('DEIN PREIS FÜR 3 FLASCHEN') + prods(c), '20px 16px 4px')
@@ -86,8 +88,8 @@ def early():
 
 def letzte():
     c = 'halloween-letzte'
-    return wrap(row(logo(), '26px 20px 6px', align='center') + heroimg('letzte', utm('/alle-produkte/', c))
-        + row(pill('🎃 LETZTE CHANCE') + h1('Heute um 23:59', 'ist Schluss.', 'Danach kostet jede Flasche wieder den normalen Preis.'), '22px 22px 6px')
+    return wrap(row(logo(), '26px 20px 0', align='center') + headrow('🎃 LETZTE CHANCE', 'Heute um 23:59', 'ist Schluss.') + heroimg('letzte', utm('/alle-produkte/', c))
+        + subrow('Danach kostet jede Flasche wieder den normalen Preis.')
         + row(btn('Jetzt Flaschen wählen', utm('/alle-produkte/', c)), '18px 22px 6px')
         + row(label('DIE BELIEBTESTEN') + prods(c), '20px 16px 4px')
         + row(ticks([TK_MIX, TK_CODE, TK_VK]), '12px 16px 26px'))
